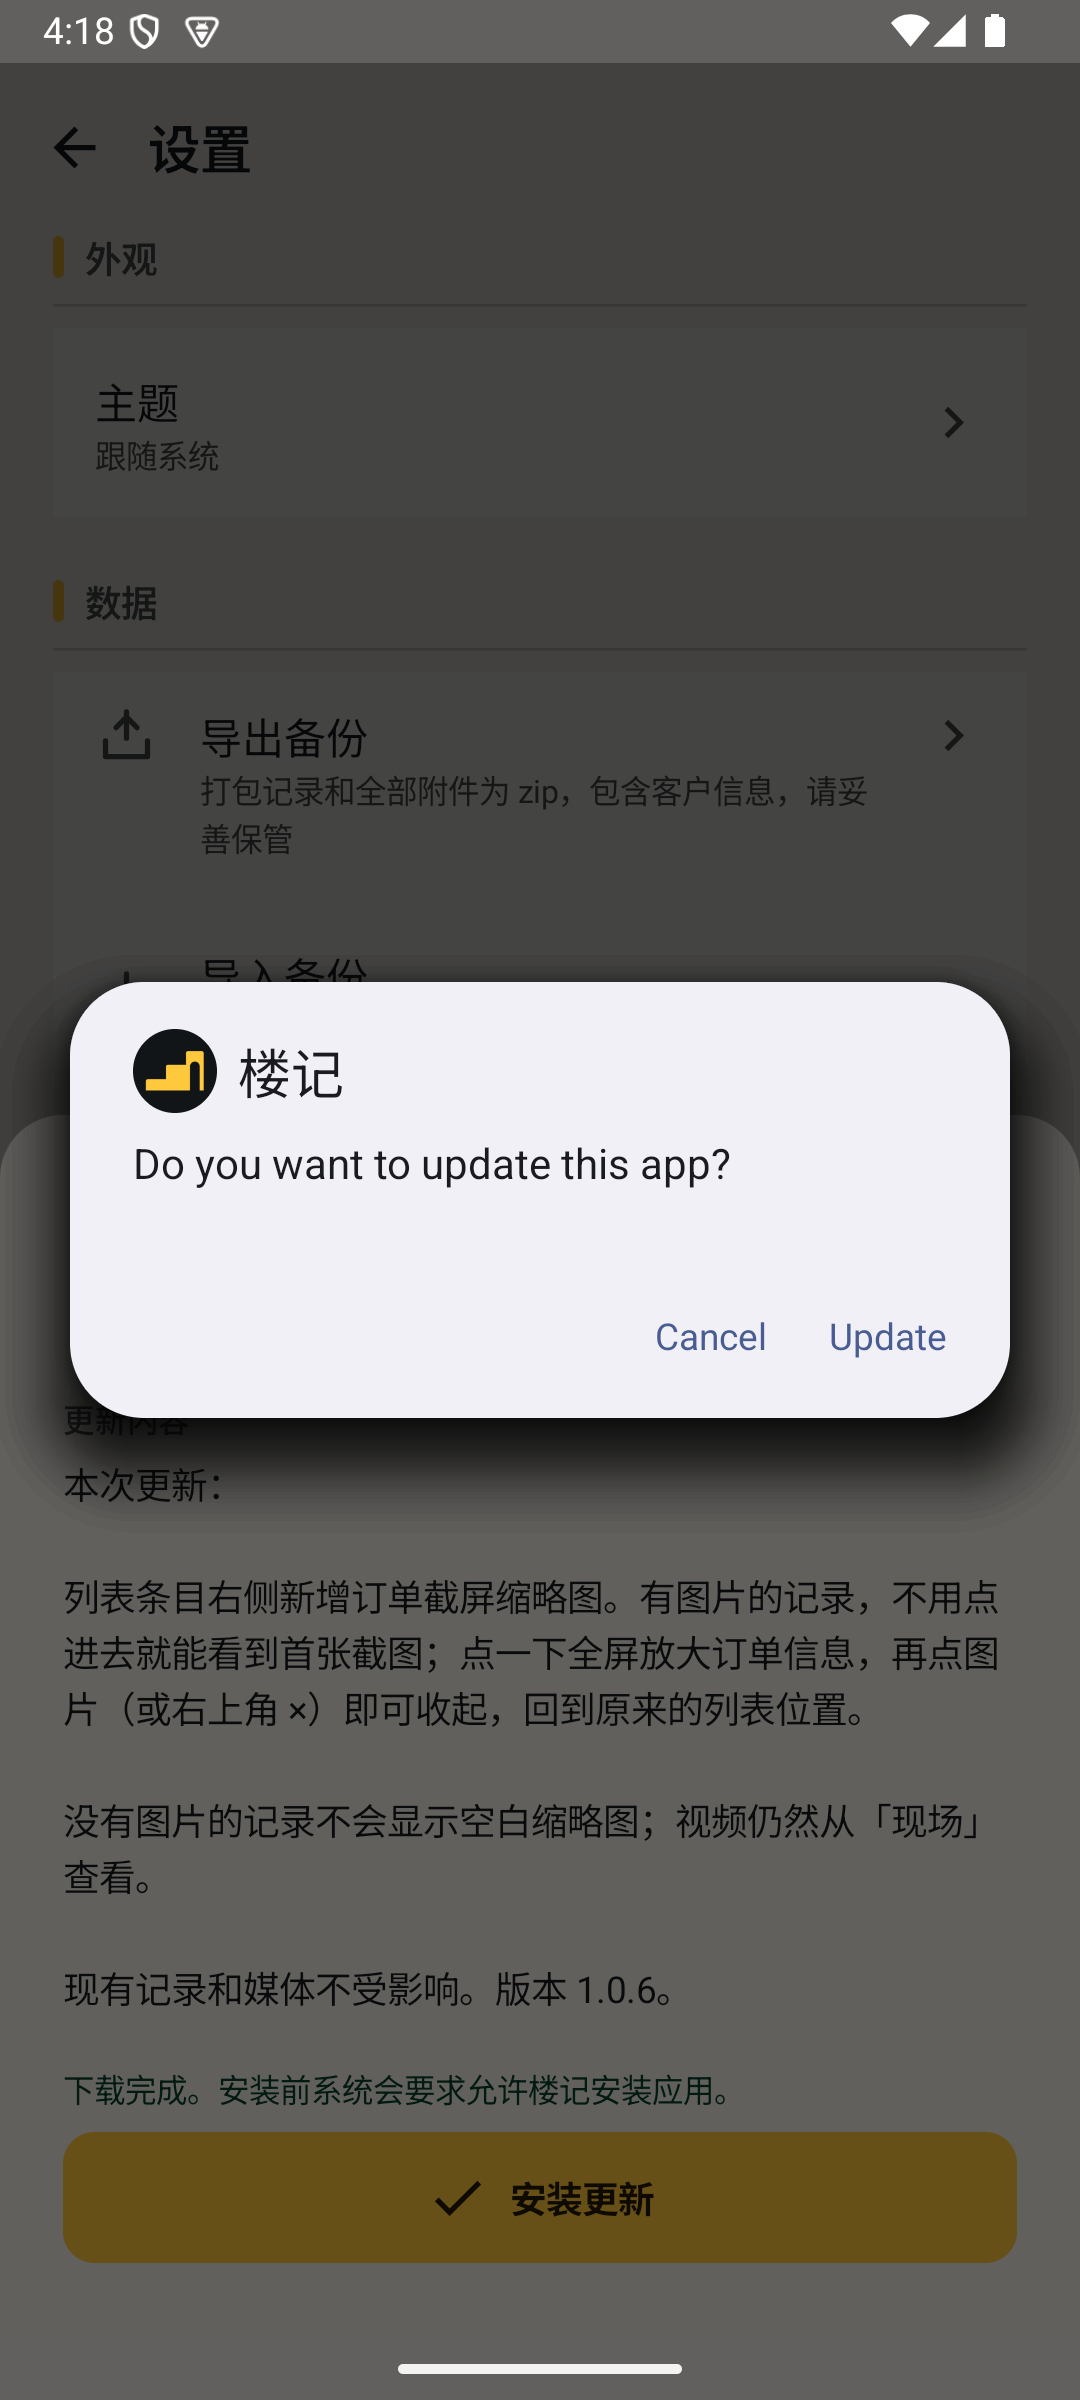
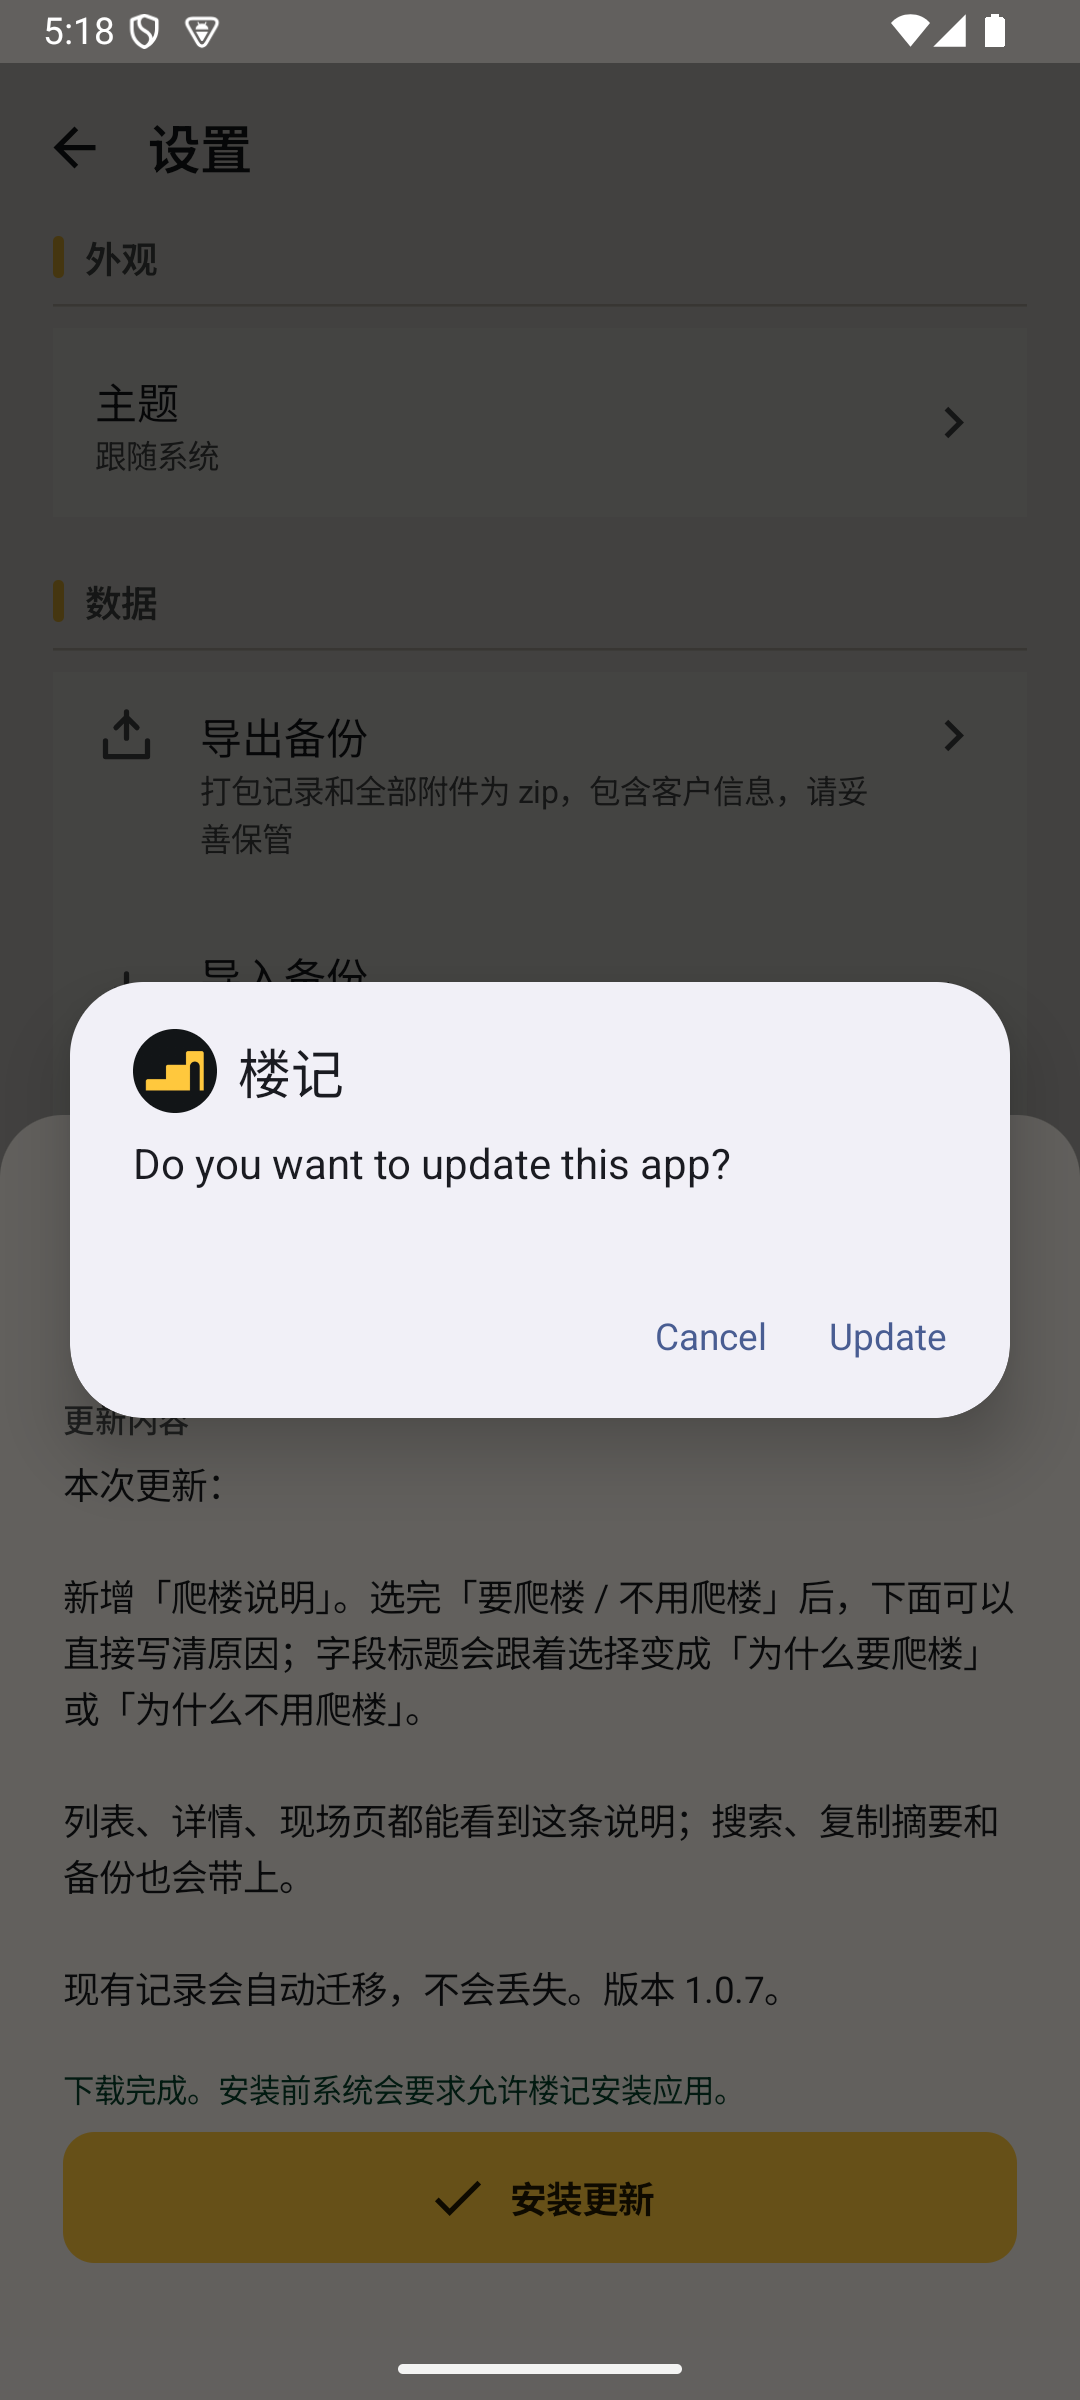
docs: v1.0.7 爬楼说明截图与更新证据

diff --git a/docs/TEST_REPORT.md b/docs/TEST_REPORT.md
@@ -156,7 +156,7 @@
 - 安装器与数据：覆盖安装使用同一签名（SHA-256 `48d7799e…`），安装后仍在列表看到旧版本创建的记录。
 - 数据库迁移：v1.0.4 → v1.0.5 首次启动执行 Room v1→v2 迁移，新增 `remark` 列且旧记录保留；已在模拟器实测。
 - v1.0.5 → v1.0.6 无数据库结构变化，覆盖安装后原有记录与媒体正常显示。
-- v1.0.6 → v1.0.7 首次启动执行 Room v2→v3 迁移，新增 `climbNote` 列；旧记录保留，爬楼说明可正常填写/显示。
+- v1.0.6 → v1.0.7 首次启动执行 Room v2→v3 迁移，新增 `climbNote` 列；旧记录保留，并在 release 包中补填爬楼说明、保存后详情正确显示。
 
 ## 7. 证据目录
 
